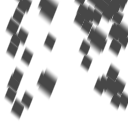
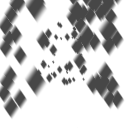
Shadows aligned to the sun's vector and props baked in; woods streaming radius 33 m, shorter far LOD
Woods 1094 -> 1022 draws, 1.03M -> 842k prims, ~72 -> ~53 ms on the HD5000 (720x1280); garden ~18 ms.

diff --git a/docs/PERFORMANCE_BASELINE.md b/docs/PERFORMANCE_BASELINE.md
@@ -107,6 +107,18 @@ Woods static geometry is now grouped into 24 m proximity chunks. Chunks within 4
 walking changes visibility only, never rebuilds geometry. `tools/render_cost.gd` disables the adaptive `Quality`
 autoload while measuring so scale/tilt-shift fallback cannot hide the renderer cost.
 
+## 2026-11-08: round 3
+
+The display measurement after round 2 was garden **466 draws / 305k primitives / ~20 ms** and woods **1094 draws /
+1.03M primitives / ~72 ms**. Round 3 aligns the offline atlas projection with each scene's actual directional-light
+travel vector, and includes the garden's authored props alongside trees and crowns. The woods proximity radius is now
+33 m; merged trunks, crown masses, and leaf cards resolve at 68 m, 58 m, and 36 m respectively. The near clearing
+remains unchanged while distant cells and leaf detail disappear into the existing haze.
+
+The configured offscreen capture could not produce PNGs in this environment because Godot's headless dummy renderer
+returns no SubViewport texture; the woods, clipping, and yard checks all pass. A real-display capture remains the visual
+verification path for the next deployment.
+
 ## 2026-10-24: hitches moved behind cards (`tools/hitch_trace.gd`)
 
 The owner reported stutter, and stalls in the wrong places: during play instead of behind loading cards. Measured
